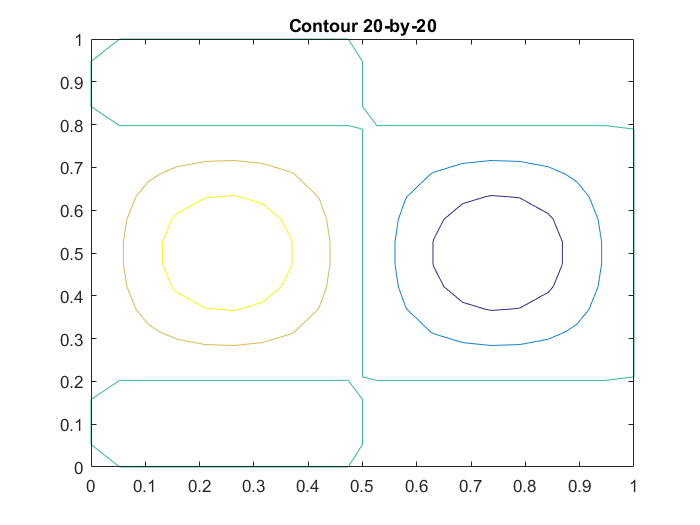
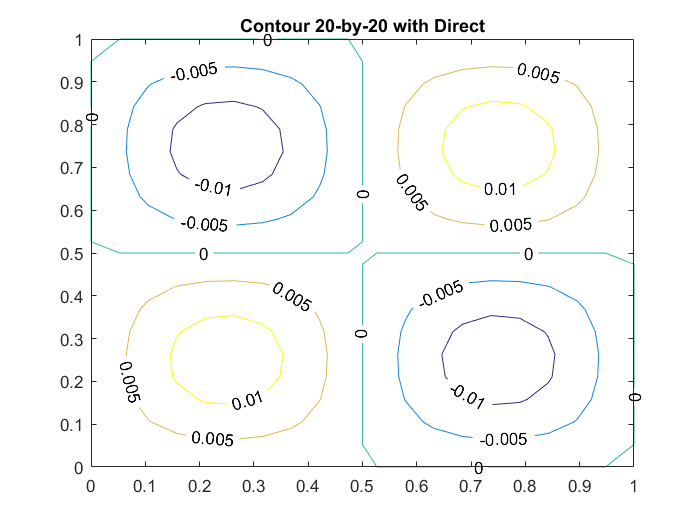
502 fix

diff --git a/ENM_hw3/grid_direrct.m b/ENM_hw3/grid_direrct.m
@@ -1,5 +1,5 @@
 % generate grid points
-M = 30;
+M = 50;
 x = 0 : 1 : M - 1;
 x = x ./ (M - 1);
 x = repmat(x, M, 1);
@@ -10,12 +10,13 @@ dx_2 = (M - 1) * (M - 1);
 dy_2 = (M - 1) * (M - 1);
 
 % sin(2 pi x) * cos(2 pi y)
-f = sin(2 * pi * x) .* cos(2 * pi * y);
+f = sin(2 * pi * x) .* sin(2 * pi * y);
 
 % construct matrix A and vector b in Ax=b
 % # of equations/unknowns: (M - 2) * (M - 2)
-A = zeros(M - 2, M - 2);
-b = zeros(M - 2, 1);
+n = (M - 2)^2;
+A = zeros(n, n);
+b = zeros(n, 1);
 row_id = 0;
 
 for i = 2 : M - 1
@@ -24,7 +25,7 @@ for i = 2 : M - 1
 		row_id = row_id + 1;
 
 		% RHS (b)
-		b(row_id) = f(i, j);
+		b(row_id) = -f(i, j);
 
 		% id of unknowns, 2D to 1D
 		x_id = grid_id(i - 1, j - 1, M - 2);
@@ -65,9 +66,10 @@ U = zeros(M);
 U(2:M - 1, 2:M - 1) = u;
 
 figure(1);
-contour(x, y, U);
-title(['Contour ', num2str(M), '-by-', num2str(M)]);
+[C, h] = contour(x, y, U);
+clabel(C, h)
+title(['Contour ', num2str(M), '-by-', num2str(M), ' with Direct']);
 
-figure(2);
-surf(x, y, U);
-title(['Solution ', num2str(M), '-by-', num2str(M)]);
+% figure(2);
+% surf(x, y, U);
+% title(['Solution ', num2str(M), '-by-', num2str(M), ' with Direct']);

diff --git a/ENM_hw3/grid_jacobi.m b/ENM_hw3/grid_jacobi.m
@@ -1,5 +1,5 @@
 % generate grid points
-M = 50;
+M = 20;
 x = 0 : 1 : M - 1;
 x = x ./ (M - 1);
 x = repmat(x, M, 1);
@@ -10,12 +10,13 @@ dx_2 = (M - 1) * (M - 1);
 dy_2 = (M - 1) * (M - 1);
 
 % sin(2 pi x) * cos(2 pi y)
-f = sin(2 * pi * x) .* cos(2 * pi * y);
+f = sin(2 * pi * x) .* sin(2 * pi * y);
 
 % construct matrix A and vector b in Ax=b
 % # of equations/unknowns: (M - 2) * (M - 2)
-A = zeros(M - 2, M - 2);
-b = zeros(M - 2, 1);
+n = (M - 2)^2;
+A = zeros(n, n);
+b = zeros(n, 1);
 row_id = 0;
 
 for i = 2 : M - 1
@@ -24,7 +25,7 @@ for i = 2 : M - 1
 		row_id = row_id + 1;
 
 		% RHS (b)
-		b(row_id) = f(i, j);
+		b(row_id) = -f(i, j);
 
 		% id of unknowns, 2D to 1D
 		x_id = grid_id(i - 1, j - 1, M - 2);
@@ -65,9 +66,10 @@ U = zeros(M);
 U(2:M - 1, 2:M - 1) = u;
 
 figure(1);
-contour(x, y, U);
-title(['Contour ', num2str(M), '-by-', num2str(M)]);
+[C, h] = contour(x, y, U);
+clabel(C, h)
+title(['Contour ', num2str(M), '-by-', num2str(M), ' with Jacobi']);
 
-figure(2);
-surf(x, y, U);
-title(['Solution ', num2str(M), '-by-', num2str(M)]);
+% figure(2);
+% surf(x, y, U);
+% title(['Solution ', num2str(M), '-by-', num2str(M), ' with Jacobi']);

diff --git a/ENM_hw3/grid_newton.m b/ENM_hw3/grid_newton.m
@@ -1,5 +1,5 @@
 % generate grid points
-M = 50;
+M = 20;
 x = 0 : 1 : M - 1;
 x = x ./ (M - 1);
 x = repmat(x, M, 1);
@@ -10,12 +10,13 @@ dx_2 = (M - 1) * (M - 1);
 dy_2 = (M - 1) * (M - 1);
 
 % sin(2 pi x) * cos(2 pi y)
-f = sin(2 * pi * x) .* cos(2 * pi * y);
+f = sin(2 * pi * x) .* sin(2 * pi * y);
 
 % construct matrix A and vector b in Ax=b
 % # of equations/unknowns: (M - 2) * (M - 2)
-A = zeros(M - 2, M - 2);
-b = zeros(M - 2, 1);
+n = (M - 2)^2;
+A = zeros(n, n);
+b = zeros(n, 1);
 row_id = 0;
 
 for i = 2 : M - 1
@@ -24,7 +25,7 @@ for i = 2 : M - 1
 		row_id = row_id + 1;
 
 		% RHS (b)
-		b(row_id) = f(i, j);
+		b(row_id) = -f(i, j);
 
 		% id of unknowns, 2D to 1D
 		x_id = grid_id(i - 1, j - 1, M - 2);
@@ -65,9 +66,10 @@ U = zeros(M);
 U(2:M - 1, 2:M - 1) = u;
 
 figure(1);
-contour(x, y, U);
-title(['Contour ', num2str(M), '-by-', num2str(M)]);
+[C, h] = contour(x, y, U);
+clabel(C, h)
+title(['Contour ', num2str(M), '-by-', num2str(M), ' with Newton']);
 
-figure(2);
-surf(x, y, U);
-title(['Solution ', num2str(M), '-by-', num2str(M)]);
+% figure(2);
+% surf(x, y, U);
+% title(['Solution ', num2str(M), '-by-', num2str(M), ' with Newton']);

diff --git a/ENM_hw3/grid_gs.m b/ENM_hw3/grid_gs.m
@@ -1,5 +1,5 @@
 % generate grid points
-M = 50;
+M = 10;
 x = 0 : 1 : M - 1;
 x = x ./ (M - 1);
 x = repmat(x, M, 1);
@@ -10,12 +10,13 @@ dx_2 = (M - 1) * (M - 1);
 dy_2 = (M - 1) * (M - 1);
 
 % sin(2 pi x) * cos(2 pi y)
-f = sin(2 * pi * x) .* cos(2 * pi * y);
+f = sin(2 * pi * x) .* sin(2 * pi * y);
 
 % construct matrix A and vector b in Ax=b
 % # of equations/unknowns: (M - 2) * (M - 2)
-A = zeros(M - 2, M - 2);
-b = zeros(M - 2, 1);
+n = (M - 2)^2;
+A = zeros(n, n);
+b = zeros(n, 1);
 row_id = 0;
 
 for i = 2 : M - 1
@@ -24,7 +25,7 @@ for i = 2 : M - 1
 		row_id = row_id + 1;
 
 		% RHS (b)
-		b(row_id) = f(i, j);
+		b(row_id) = -f(i, j);
 
 		% id of unknowns, 2D to 1D
 		x_id = grid_id(i - 1, j - 1, M - 2);
@@ -65,9 +66,10 @@ U = zeros(M);
 U(2:M - 1, 2:M - 1) = u;
 
 figure(1);
-contour(x, y, U);
+[C, h] = contour(x, y, U);
+clabel(C, h)
 title(['Contour ', num2str(M), '-by-', num2str(M)]);
 
-figure(2);
-surf(x, y, U);
-title(['Solution ', num2str(M), '-by-', num2str(M)]);
+% figure(2);
+% surf(x, y, U);
+% title(['Solution ', num2str(M), '-by-', num2str(M)]);
